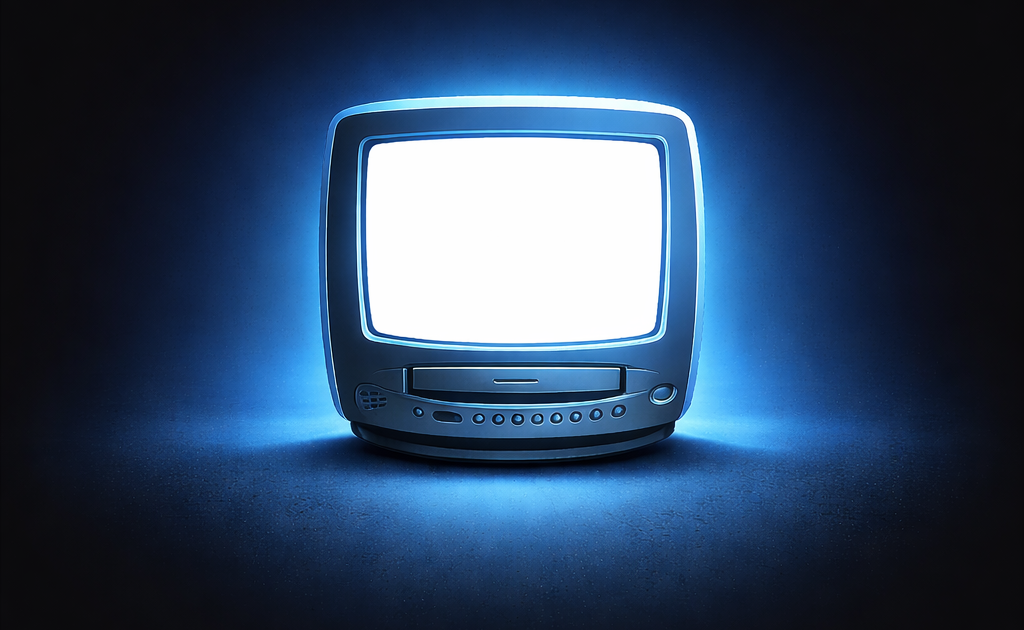
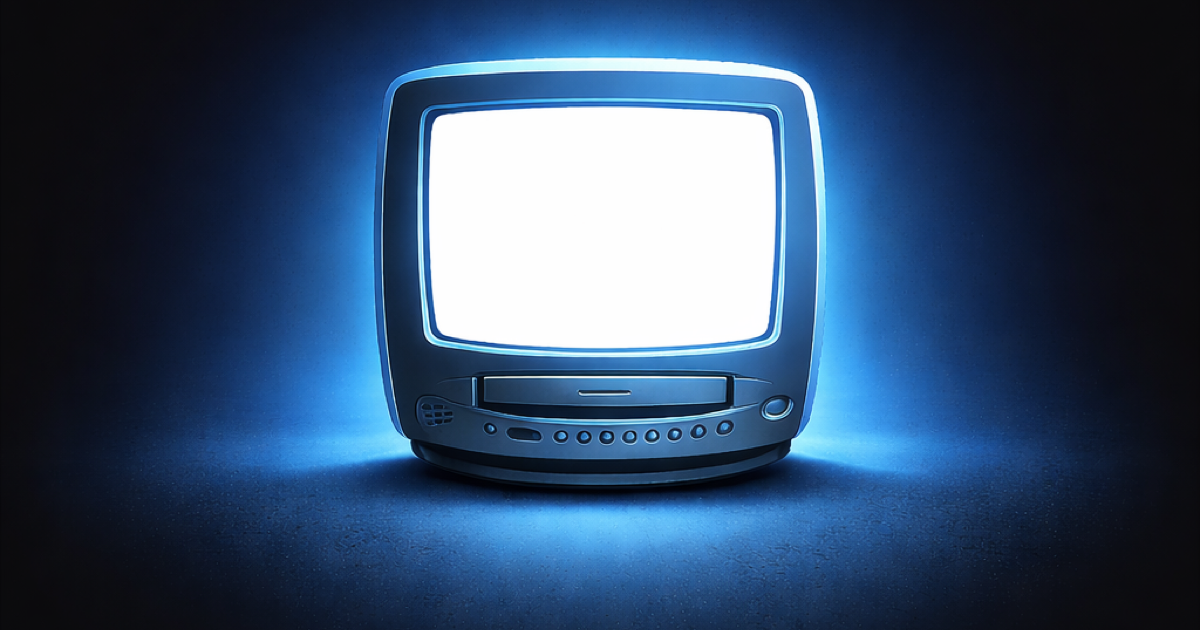
Improve SEO

Changed region(s): [[0.125, 0.0, 0.9062, 1.0]]

diff --git a/index.html b/index.html
@@ -20,7 +20,7 @@
     />
     <meta property="og:url" content="https://watchtonight.app/" />
     <meta property="og:image" content="https://watchtonight.app/og-image.png" />
-    <meta name="twitter:card" content="summary" />
+    <meta name="twitter:card" content="summary_large_image" />
     <meta
       name="twitter:title"
       content="WatchTonight — New releases streaming at home"
